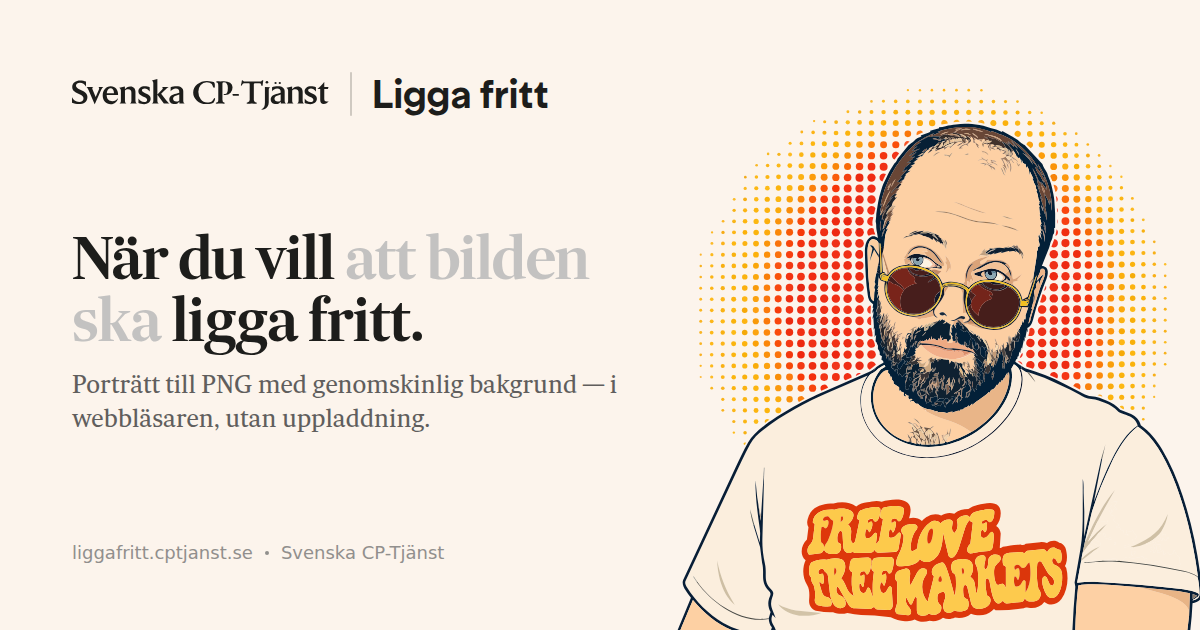
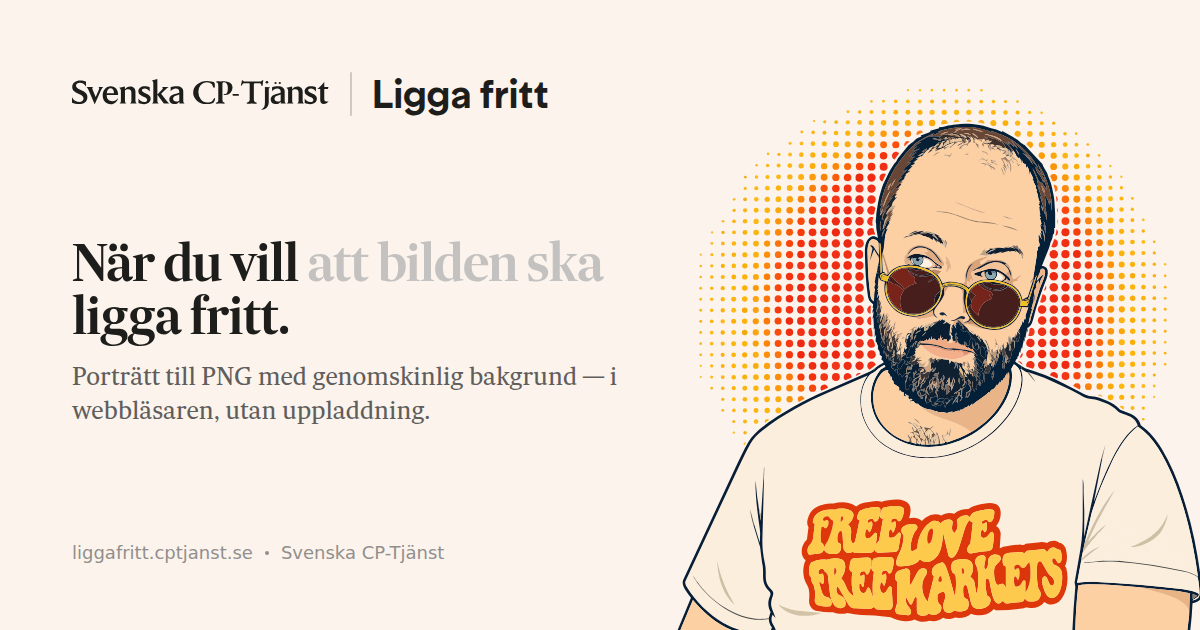
OG headline: keep 'att bilden ska' on line one
The clause was breaking across lines. The break is now explicit and each line
is nowrap, so it cannot split however the type is sized, and the size is 50px —
measured as the largest step that keeps line one clear of the figure. 52 fits
by two pixels, which is not clearance.

Claude-Session: https://claude.ai/code/session_01DUW4F4bZ4bwXQ6GngHLyu1

Changed region(s): [[0.0617, 0.3619, 0.5242, 0.6937]]

diff --git a/brand/tools/og-template.html b/brand/tools/og-template.html
@@ -22,10 +22,15 @@
   .og__wordmark { --logoColor: currentColor; height: 34px; width: auto; fill: currentColor; }
   .og__rule { width: 2px; height: 44px; border-radius: 999px; background: currentColor; opacity: 0.2; }
   .og__product { font-family: var(--font-display); font-weight: 700; font-size: 40px; letter-spacing: -0.02em; }
-  .og__body { position: relative; max-width: 560px; }
-  /* Grey through the middle clause only; the words either side stay in ink. */
-  .og__headline { font-family: var(--font-head); font-weight: 600; font-size: 58px; line-height: 1.06;
+  .og__body { position: relative; max-width: 620px; }
+  /* Grey through the middle clause only; the words either side stay in ink.
+     The break is explicit and each line is nowrap, so "att bilden ska" cannot
+     be split across lines however the type is sized. */
+  /* 50px: measured, the largest step that keeps line one clear of the figure.
+     52 fits by two pixels, which is not clearance. */
+  .og__headline { font-family: var(--font-head); font-weight: 600; font-size: 50px; line-height: 1.06;
                   letter-spacing: -0.02em; margin: 0 0 18px; }
+  .og__line { display: block; width: max-content; max-width: none; white-space: nowrap; }
   .og__muted { color: #C3C2C1; }
   .og__sub { font-family: var(--font-body); font-size: 24px; line-height: 1.4;
              color: var(--color-text-secondary); margin: 0; }
@@ -43,7 +48,10 @@
       <span class="og__product">Ligga fritt</span>
     </div>
     <div class="og__body">
-      <h1 class="og__headline">N&auml;r du vill <span class="og__muted">att bilden ska</span> ligga fritt.</h1>
+      <h1 class="og__headline">
+        <span class="og__line">N&auml;r du vill <span class="og__muted">att bilden ska</span></span>
+        <span class="og__line">ligga fritt.</span>
+      </h1>
       <p class="og__sub">Porträtt till PNG med genomskinlig bakgrund &mdash; i webbläsaren, utan uppladdning.</p>
     </div>
     <div class="og__foot">
